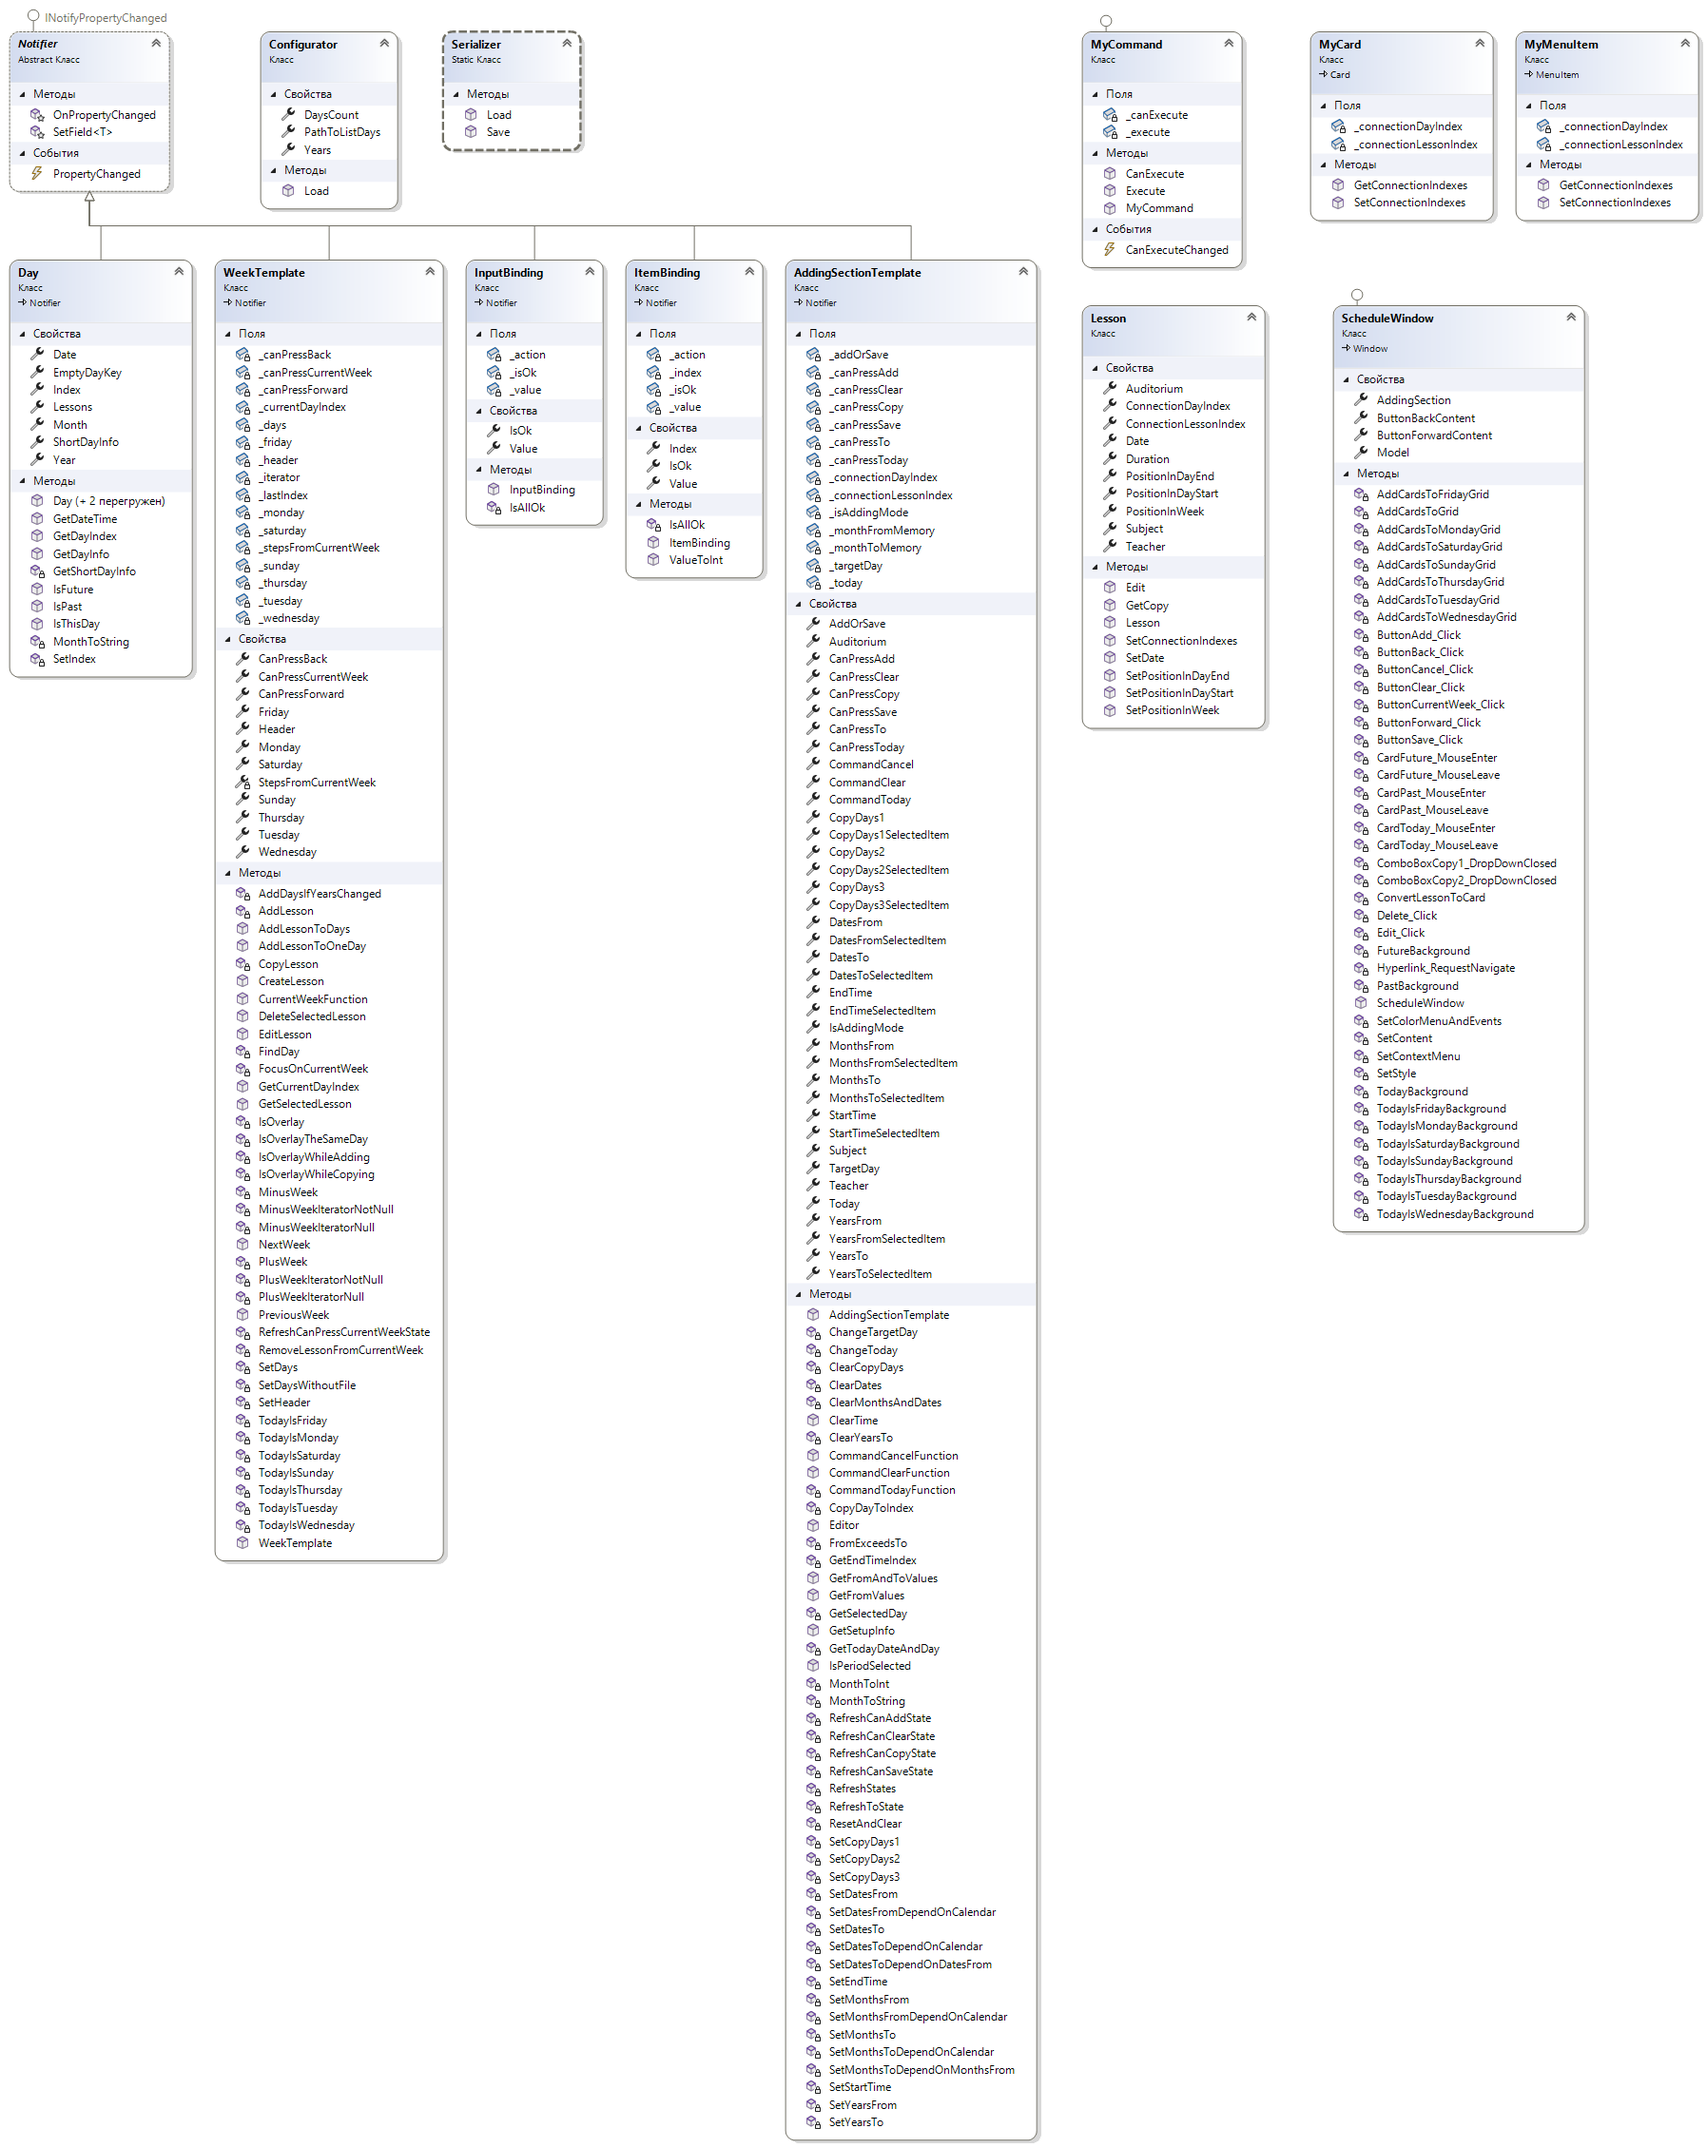
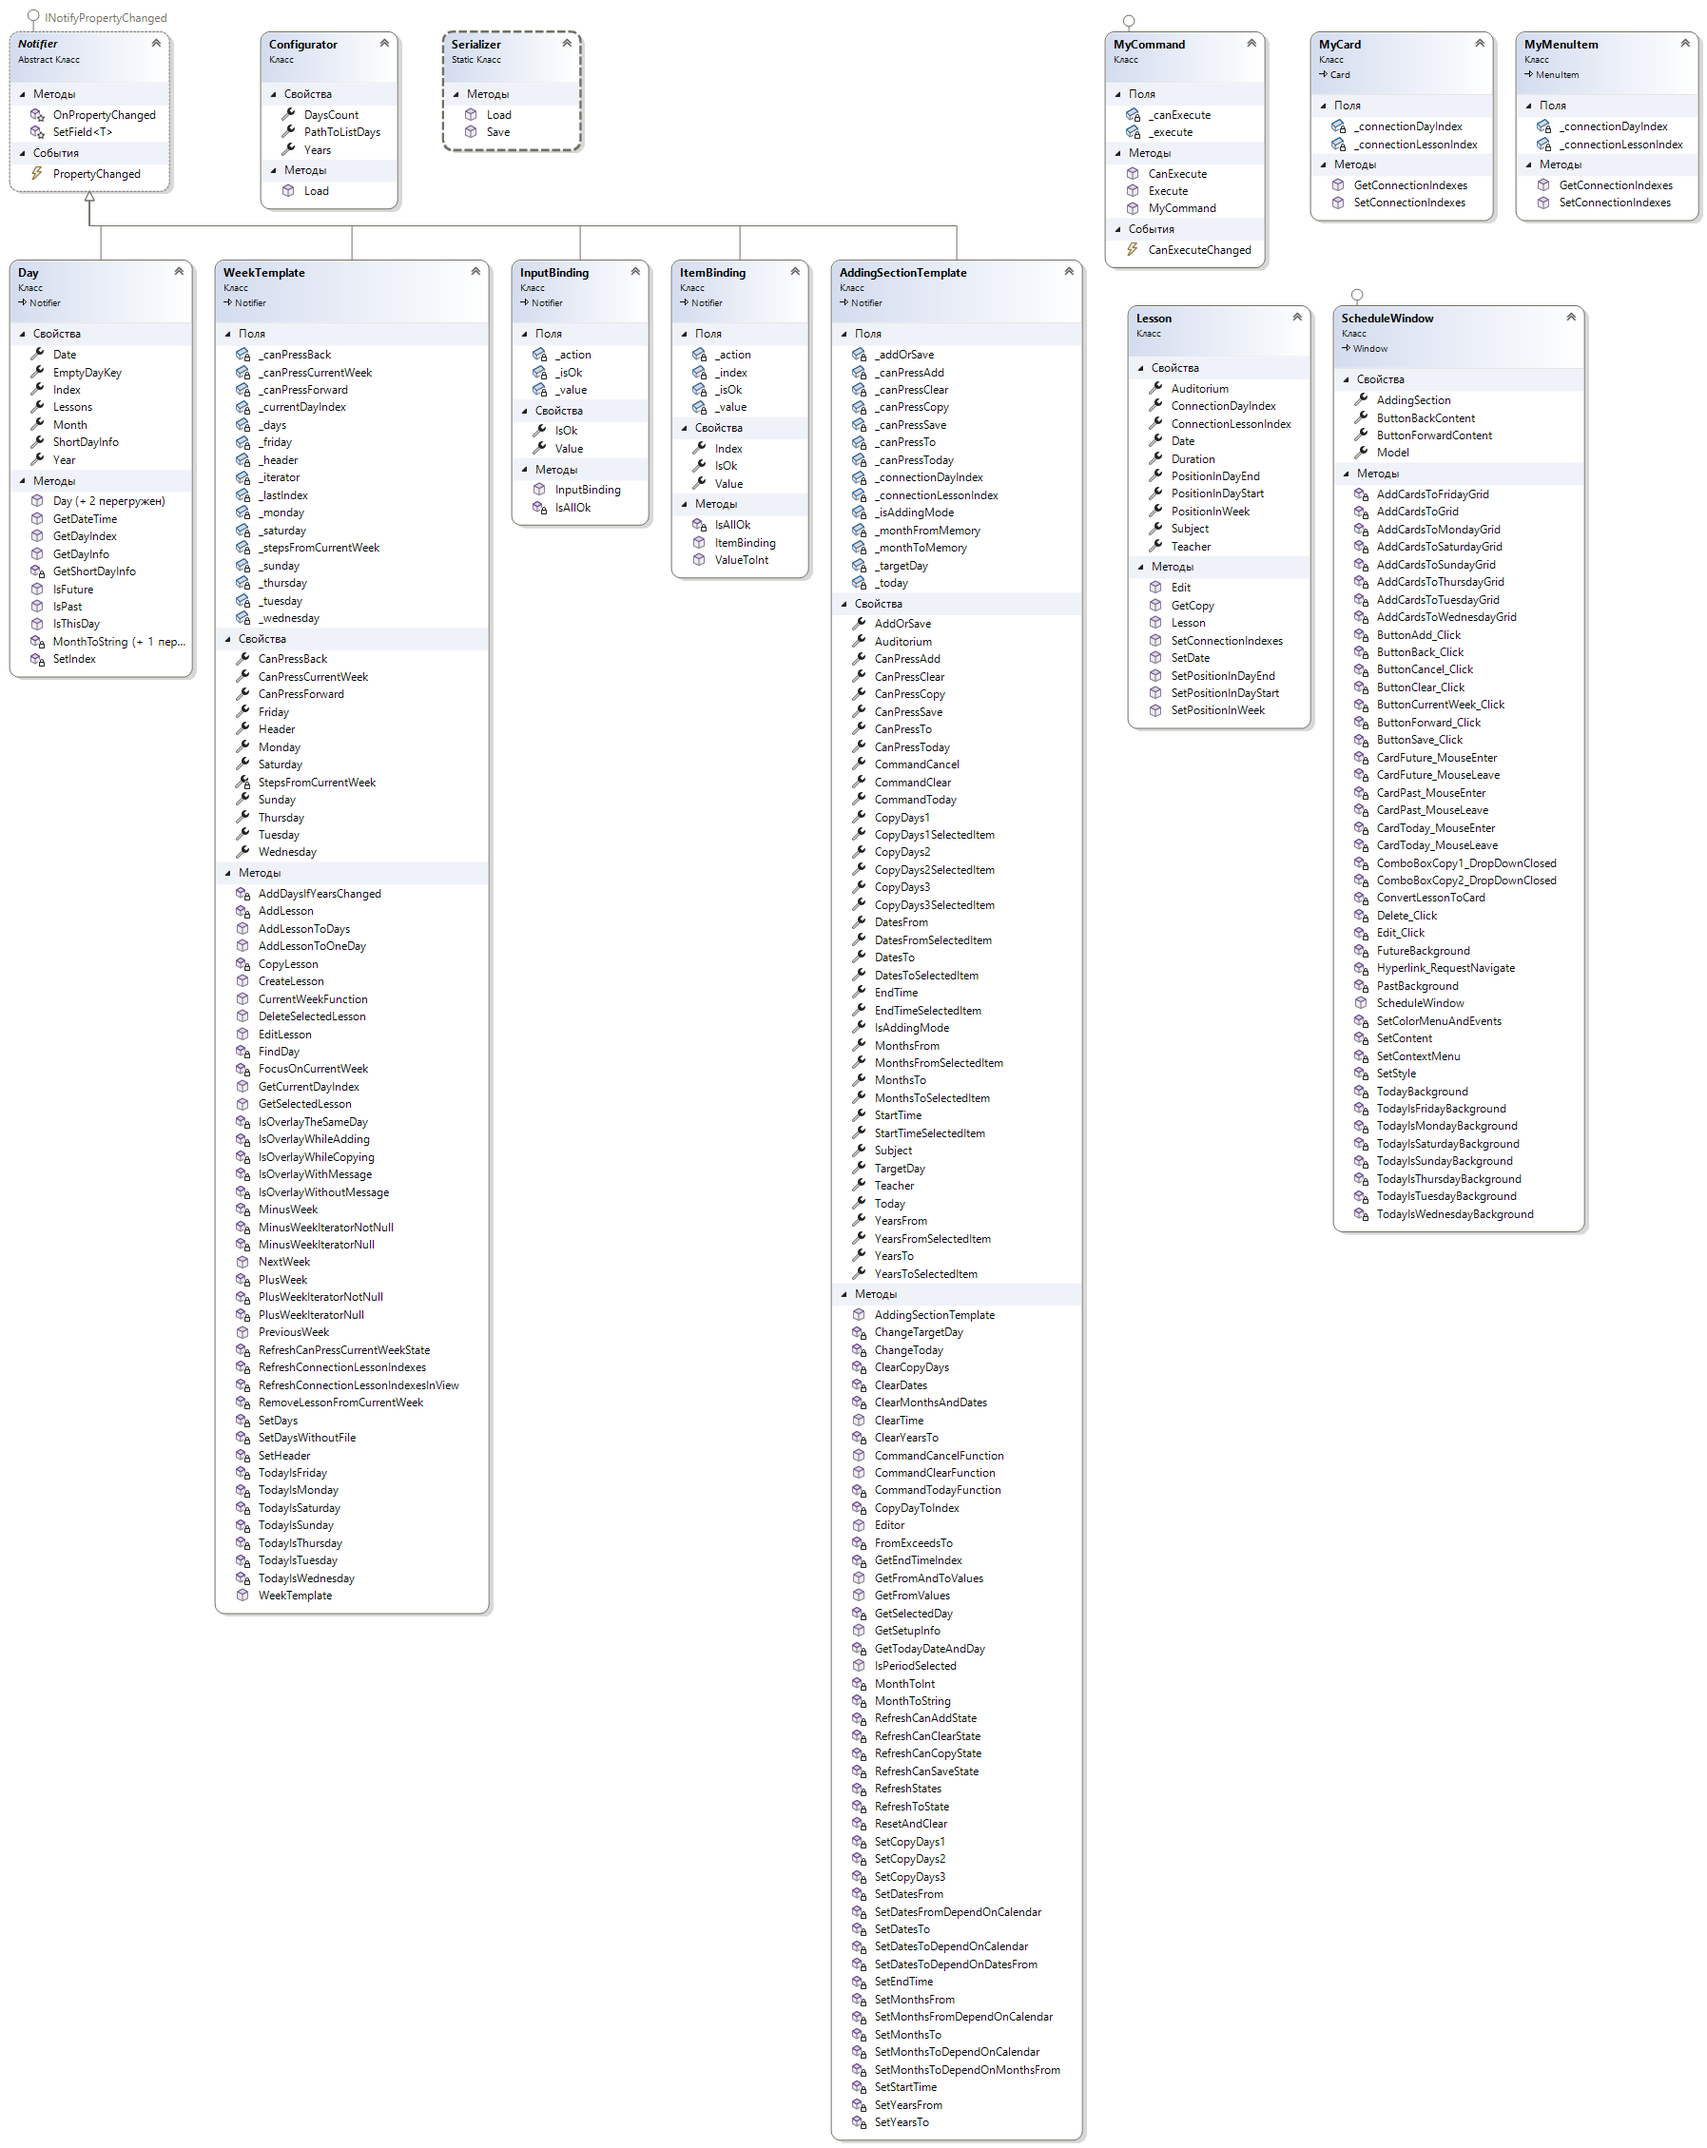
Updates!

Changed region(s): [[0.1248, 0.0, 0.7799, 1.0]]

diff --git a/ViewModels/WeekTemplate.cs b/ViewModels/WeekTemplate.cs
@@ -504,7 +504,7 @@ namespace Schedule.ViewModels
 
             return isOverlay;
         }
-        private (bool isOverlay, string whatDay) IsOverlay(int index, int startTimeIndex, int endTimeIndex)
+        private (bool isOverlay, string whatDay) IsOverlayWithMessage(int index, int startTimeIndex, int endTimeIndex)
         {
             var isOverlay = false;
             var whatDay=string.Empty;
@@ -534,7 +534,7 @@ namespace Schedule.ViewModels
         {
             for (var i = start; i <= stop; i += 7)
             {
-                var (isOverlay, whatDay) = IsOverlay(i, lesson.PositionInDayStart, lesson.PositionInDayStart + lesson.PositionInDayEnd);
+                var (isOverlay, whatDay) = IsOverlayWithMessage(i, lesson.PositionInDayStart, lesson.PositionInDayStart + lesson.PositionInDayEnd);
                 if (isOverlay)
                 {
                     return (true,whatDay);
@@ -550,7 +550,7 @@ namespace Schedule.ViewModels
                 if (_days![i].GetDayIndex() != copyIndex) continue;
                 for (var j = i; j <= stop; j += 7)
                 {
-                    var (isOverlay, whatDay) = IsOverlay(j, lesson.PositionInDayStart, lesson.PositionInDayStart + lesson.PositionInDayEnd);
+                    var (isOverlay, whatDay) = IsOverlayWithMessage(j, lesson.PositionInDayStart, lesson.PositionInDayStart + lesson.PositionInDayEnd);
                     if (isOverlay)
                     {
                         return (true, whatDay);
